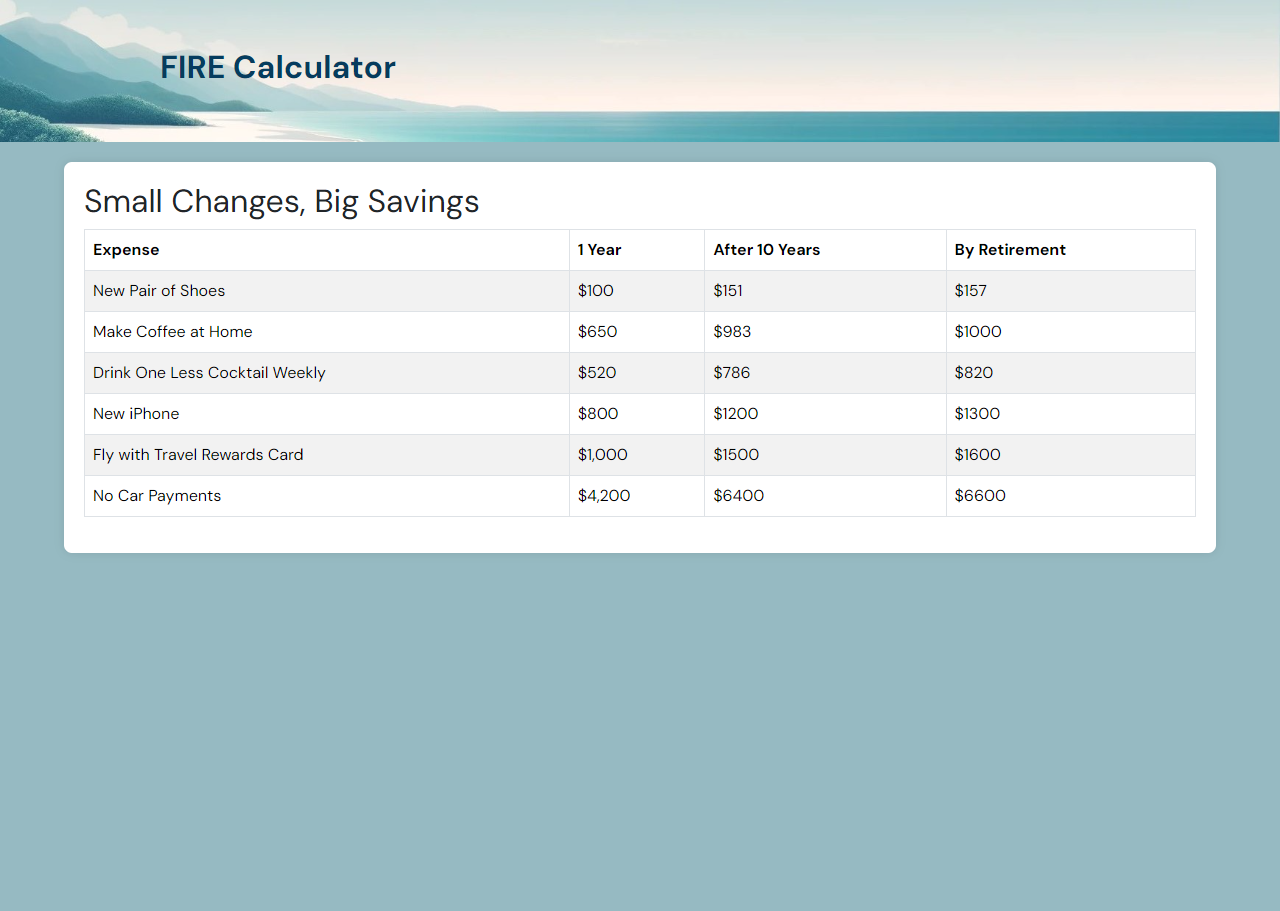
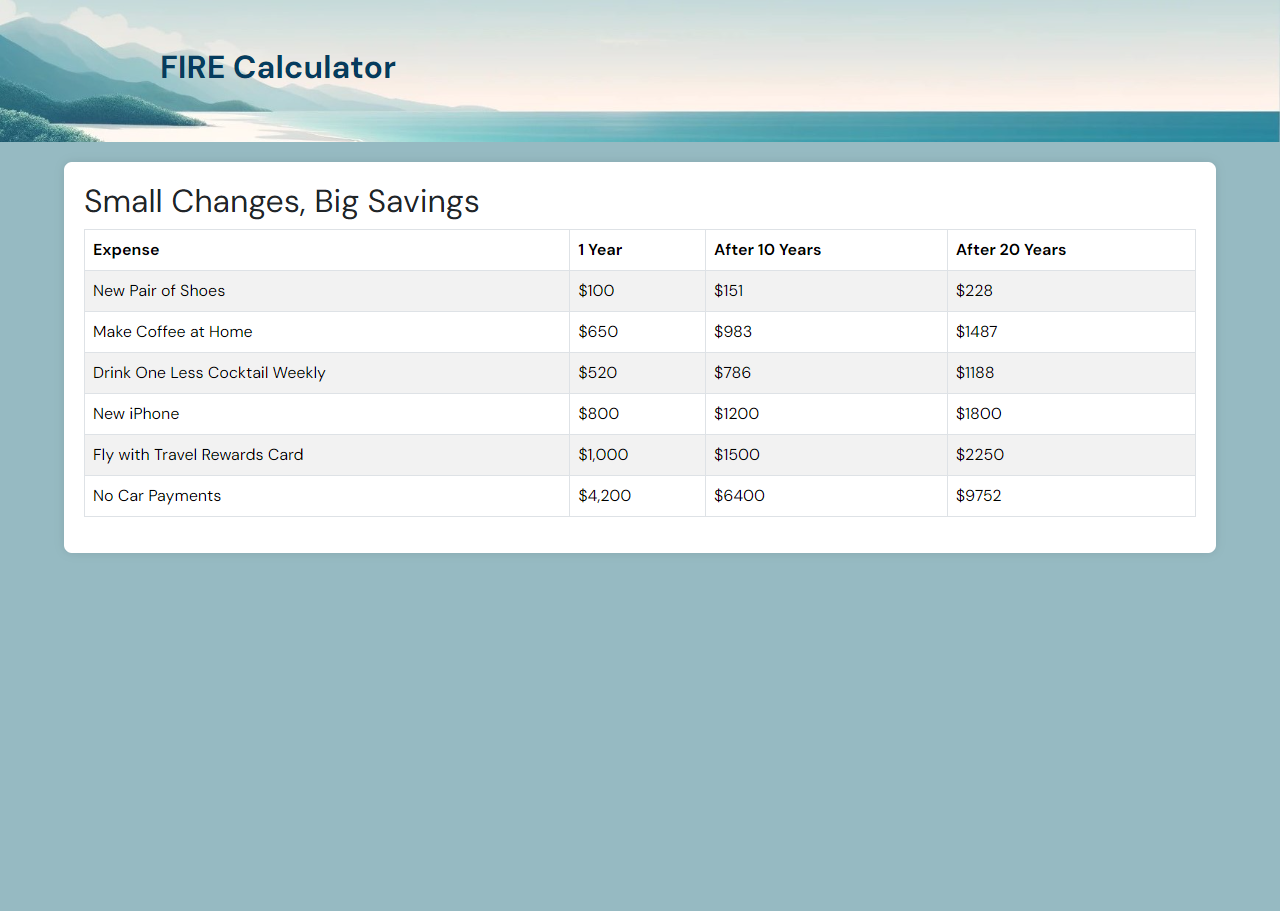
update saving tips and  images

diff --git a/src/pages/SavingsTips/SavingsTips.js b/src/pages/SavingsTips/SavingsTips.js
@@ -9,37 +9,37 @@ const SavingsTips = () => {
       expense: "New Pair of Shoes",
       oneYear: "$100",
       tenYears: "$151",
-      byRetirement: "$157",
+      twentyYears: "$228",
     },
     {
       expense: "Make Coffee at Home",
       oneYear: "$650",
       tenYears: "$983",
-      byRetirement: "$1000",
+      twentyYears: "$1487",
     },
     {
       expense: "Drink One Less Cocktail Weekly",
       oneYear: "$520",
       tenYears: "$786",
-      byRetirement: "$820",
+      twentyYears: "$1188",
     },
     {
       expense: "New iPhone",
       oneYear: "$800",
       tenYears: "$1200",
-      byRetirement: "$1300",
+      twentyYears: "$1800",
     },
     {
       expense: "Fly with Travel Rewards Card",
       oneYear: "$1,000",
       tenYears: "$1500",
-      byRetirement: "$1600",
+      twentyYears: "$2250",
     },
     {
       expense: "No Car Payments",
       oneYear: "$4,200",
       tenYears: "$6400",
-      byRetirement: "$6600",
+      twentyYears: "$9752",
     },
   ];
 
@@ -54,7 +54,7 @@ const SavingsTips = () => {
             <th>Expense</th>
             <th>1 Year</th>
             <th>After 10 Years</th>
-            <th>By Retirement</th>
+            <th>After 20 Years</th>
           </tr>
         </thead>
         <tbody>
@@ -63,7 +63,7 @@ const SavingsTips = () => {
               <td>{item.expense}</td>
               <td>{item.oneYear}</td>
               <td>{item.tenYears}</td>
-              <td>{item.byRetirement}</td>
+              <td>{item.twentyYears}</td>
             </tr>
           ))}
         </tbody>

diff --git a/src/App.js b/src/App.js
@@ -8,13 +8,13 @@ import SavingsTips from "./pages/SavingsTips/SavingsTips";
 function App() {
   return (
     <BrowserRouter>
-      {/* <Header /> */}
+    
       <Routes>
         <Route path="/" element={<LandingPage />} />
         <Route path="/calculator" element={<CalculatorPage />} />
         <Route path="/tips" element={<SavingsTips />} />
         <Route path="*"  element={<Navigate to="/" />} />
-        {/* <Redirect to="/" /> */}
+      
       </Routes>
     </BrowserRouter>
   );
